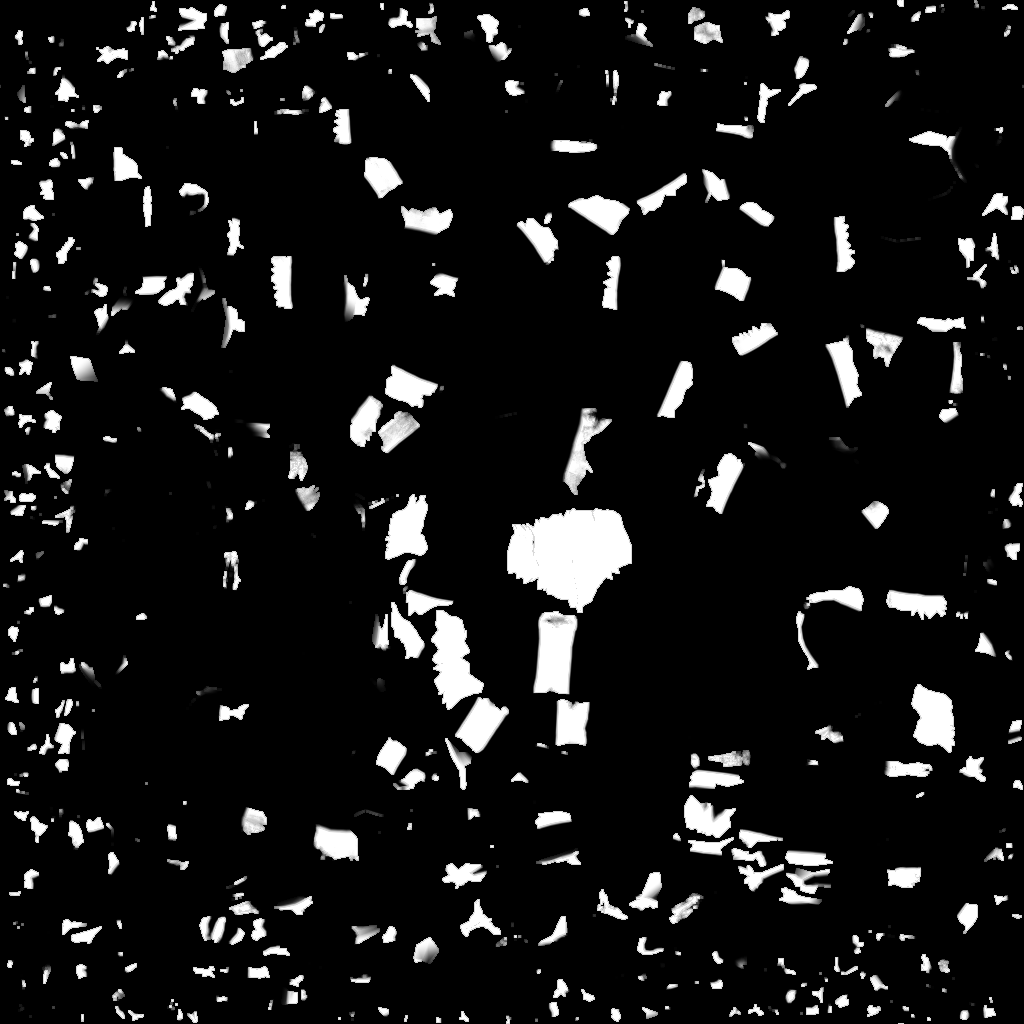
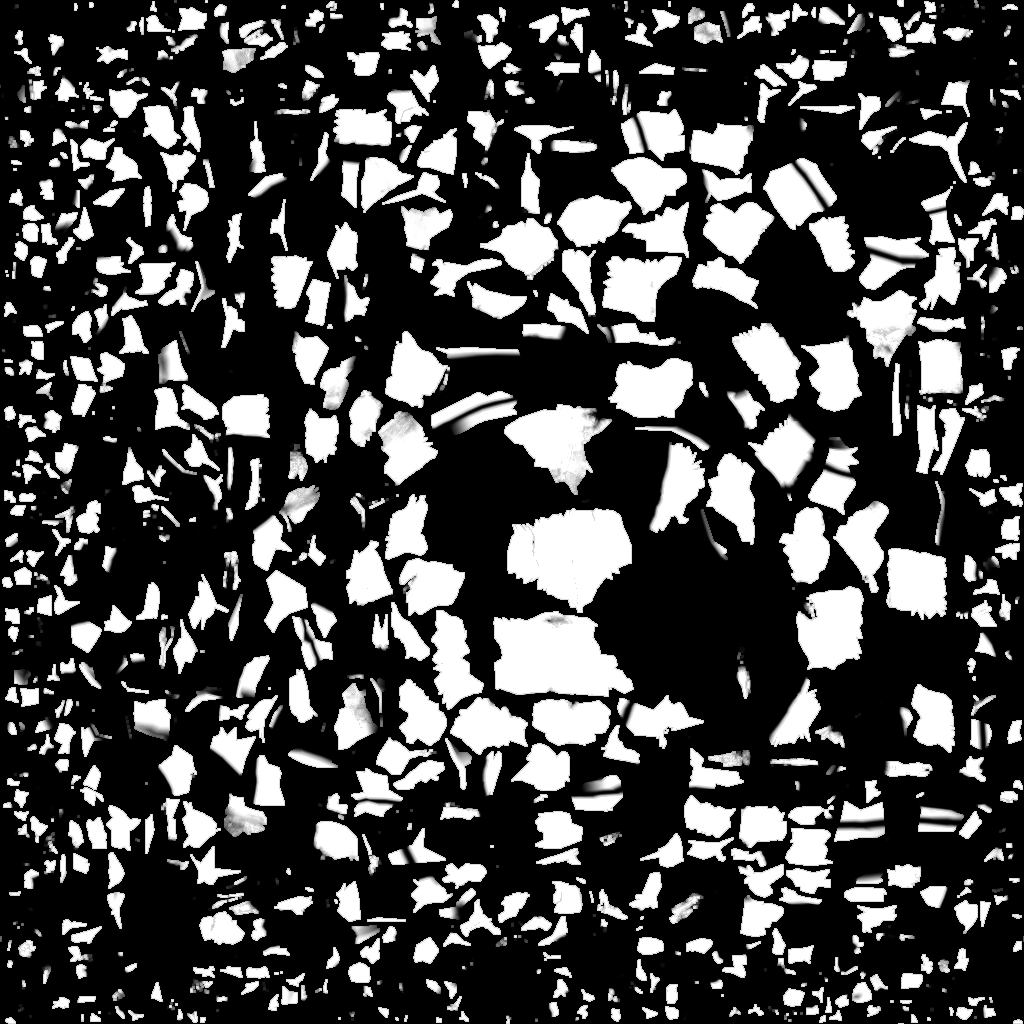
Expand sailing ship paint mask to cover deck and broadside

diff --git a/src/app.js b/src/app.js
@@ -977,7 +977,7 @@ for (const q of NATIONS) for (let n = 1; n <= SHIPS_PER_NATION; n++) {
   ships.push(s);
 }
 
-// The UV mask from tools/preview_ship_styles.py covers the sail stripes and hull trim on both models.
+// Both sailing-ship models share the sail, broadside and deck mask from tools/preview_ship_styles.py.
 let paintMaskRequest;
 function loadPaintMask() {
   return paintMaskRequest ??= new THREE.TextureLoader().loadAsync('assets/models/sailing-ship-paint-mask.png')

diff --git a/tools/preview_ship_styles.py b/tools/preview_ship_styles.py
@@ -84,25 +84,28 @@ def make_mask():
         tx=np.minimum(iw-1,np.maximum(0,(xx/MASK_SIZE*iw).astype(int)))
         ty=np.minimum(ih-1,np.maximum(0,(yy/MASK_SIZE*ih).astype(int)))
         rgb=px[ty,tx,:3]
-        # Classify ivory cloth from the original ALBEDO, excluding warm timber,
-        # gold fittings, and the dark narrow masts within the center stripe.
+        # Use the ivory canvas across the sail, preserving spars and rigging.
         r,g,b=rgb[...,0],rgb[...,1],rgb[...,2]
         sat=(np.max(rgb,axis=-1)-np.min(rgb,axis=-1))/np.maximum(np.max(rgb,axis=-1),.001)
         fabric=smooth(.29,.42,b)*smooth(.38,.51,g)*(1-smooth(.39,.51,sat))
         fabric*=1-smooth(1.25,1.36,r/np.maximum(g,.001))
         fabric*=smooth(-.157,-.142,xyz[...,2])
-        sail_band=(1-smooth(.031,.036,np.abs(xyz[...,1])))*fabric
-        # Hull band sits under the gold/deck edge, intentionally narrow.
-        hull_band=(smooth(-.221,-.218,xyz[...,2])
-                   *(1-smooth(-.205,-.202,xyz[...,2]))
-                   *smooth(.074,.079,np.abs(xyz[...,1])))
-        sail_band*=inside
-        hull_band*=inside
+        beam=np.abs(xyz[...,1])
+        height=xyz[...,2]
+        # Extend the broadside livery down the planking, below the deck edge.
+        broadside=(smooth(-.270,-.264,height)*(1-smooth(-.205,-.202,height))
+                   *smooth(.055,.061,beam))
+        # A painted run of deck planks stays visible from above after the sails tear.
+        normal=np.cross(tp[1]-tp[0],tp[2]-tp[0])
+        deck=(smooth(-.220,-.216,height)*(1-smooth(-.175,-.169,height))
+              *(1-smooth(.045,.050,beam)) if normal[2]>.75*np.linalg.norm(normal) else 0)
+        hull_paint=np.maximum(broadside,deck)*inside
+        sail_paint=fabric*inside
         ys=slice(ymin,ymax+1);xs=slice(xmin,xmax+1)
-        cloth[ys,xs]=np.maximum(cloth[ys,xs],sail_band)
-        hull[ys,xs]=np.maximum(hull[ys,xs],hull_band)
+        cloth[ys,xs]=np.maximum(cloth[ys,xs],sail_paint)
+        hull[ys,xs]=np.maximum(hull[ys,xs],hull_paint)
         coverage[ys,xs]|=inside
-        pick=inside&(sail_band>.7)
+        pick=sail_paint>.7
         if pick.any():paint_rgb.append(rgb[pick])
     mask=np.maximum(cloth,hull)
     # A one-pixel gutter expansion reduces bright seams at oblique views,
@@ -122,8 +125,9 @@ def make_mask():
               'sailPaintAlbedoMinRGB':[float(x) for x in paint_rgb.min(axis=0)],
               'method':'Original UV triangle rasterization with barycentric original 3D position and albedo fabric classification',
               'gutterPixels':1,'sharedIntactWreckMask':True,
-              'coordinatesBlender':{'canvasBand':'abs(y) < .035; z > -.15; ivory albedo only',
-                                    'hullBand':'z -.219..-.204; abs(y) > .075'}}
+              'coordinatesBlender':{'canvas':'ivory albedo above the deck across the full beam',
+                                    'broadside':'z -.270..-.202; abs(y) > .055',
+                                    'deck':'upward faces; z -.220..-.169; abs(y) < .050'}}
     (OUT/'mask-evidence.json').write_text(json.dumps(evidence,indent=2))
     print('MASK_EVIDENCE',json.dumps(evidence),flush=True)
 
